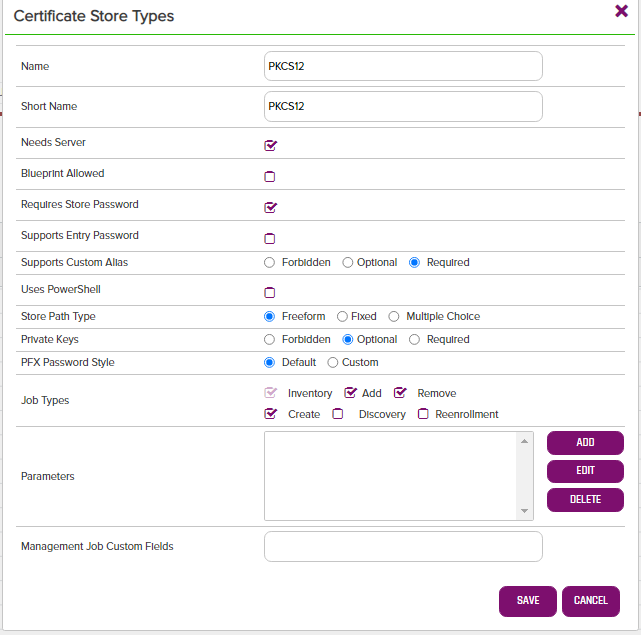
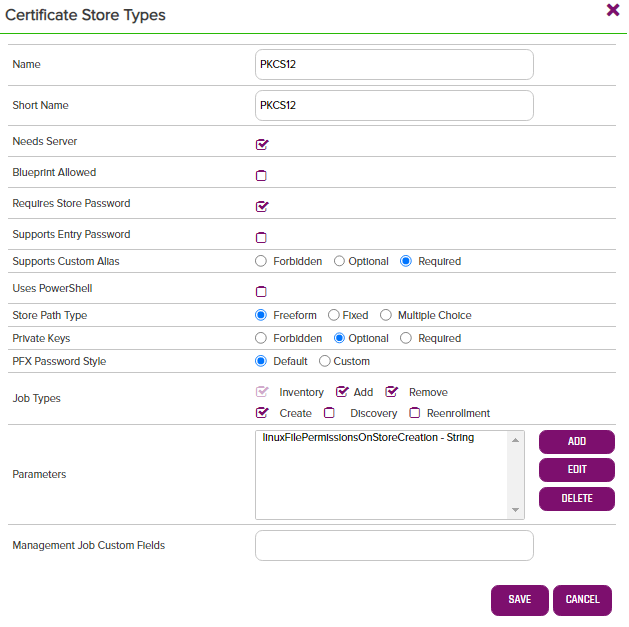
Linux permissions winrm credentials (#7) (#8)

diff --git a/PKCS12/Management.cs b/PKCS12/Management.cs
@@ -38,50 +38,55 @@ namespace Keyfactor.Extensions.Orchestrator.PKCS12
         {
             Logger.Debug($"Begin PKCS12 Management-{Enum.GetName(typeof(AnyJobOperationType), config.Job.OperationType)} job for job id {config.Job.JobId}...");
 
-            PKCS12Store PKCS12Store = new PKCS12Store(config.Store.ClientMachine, config.Server.Username, config.Server.Password, config.Store.StorePath, config.Store.StorePassword);
+            PKCS12Store pkcs12Store = new PKCS12Store(config.Store.ClientMachine, config.Server.Username, config.Server.Password, config.Store.StorePath, config.Store.StorePassword);
 
             try
             {
                 ApplicationSettings.Initialize(this.GetType().Assembly.Location);
 
                 bool hasPassword = !string.IsNullOrEmpty(config.Job.PfxPassword);
-                PKCS12Store.Initialize();
+                pkcs12Store.Initialize();
 
                 switch (config.Job.OperationType)
                 {
                     case AnyJobOperationType.Add:
                         Logger.Debug($"Begin Create Operation for {config.Store.StorePath} on {config.Store.ClientMachine}.");
-                        if (!PKCS12Store.DoesStoreExist())
+                        if (!pkcs12Store.DoesStoreExist())
                         {
-                            throw new PKCS12Exception($"Certificate store {PKCS12Store.StorePath + PKCS12Store.StoreFileName} does not exist on server {PKCS12Store.Server}.");
+                            throw new PKCS12Exception($"Certificate store {pkcs12Store.StorePath + pkcs12Store.StoreFileName} does not exist on server {pkcs12Store.Server}.");
                         }
                         else
                         {
-                            PKCS12Store.AddCertificate(config.Job.Alias, config.Job.EntryContents, config.Job.Overwrite, config.Job.PfxPassword);
+                            pkcs12Store.AddCertificate(config.Job.Alias, config.Job.EntryContents, config.Job.Overwrite, config.Job.PfxPassword);
                         }
                         break;
 
                     case AnyJobOperationType.Remove:
                         Logger.Debug($"Begin Delete Operation for {config.Store.StorePath} on {config.Store.ClientMachine}.");
-                        if (!PKCS12Store.DoesStoreExist())
+                        if (!pkcs12Store.DoesStoreExist())
                         {
-                            throw new PKCS12Exception($"Certificate store {PKCS12Store.StorePath + PKCS12Store.StoreFileName} does not exist on server {PKCS12Store.Server}.");
+                            throw new PKCS12Exception($"Certificate store {pkcs12Store.StorePath + pkcs12Store.StoreFileName} does not exist on server {pkcs12Store.Server}.");
                         }
                         else
                         {
-                            PKCS12Store.DeleteCertificateByAlias(config.Job.Alias);
+                            pkcs12Store.DeleteCertificateByAlias(config.Job.Alias);
                         }
                         break;
 
                     case AnyJobOperationType.Create:
                         Logger.Debug($"Begin Create Operation for {config.Store.StorePath} on {config.Store.ClientMachine}.");
-                        if (PKCS12Store.DoesStoreExist())
+                        if (pkcs12Store.DoesStoreExist())
                         {
-                            throw new PKCS12Exception($"Certificate store {PKCS12Store.StorePath + PKCS12Store.StoreFileName} already exists.");
+                            throw new PKCS12Exception($"Certificate store {pkcs12Store.StorePath + pkcs12Store.StoreFileName} already exists.");
                         }
                         else
                         {
-                            PKCS12Store.CreateCertificateStore(config.Store.StorePath, config.Store.StorePassword);
+                            dynamic properties = JsonConvert.DeserializeObject(config.Store.Properties.ToString());
+                            string linuxFilePermissions = properties.linuxFilePermissionsOnStoreCreation == null || string.IsNullOrEmpty(properties.linuxFilePermissionsOnStoreCreation.Value) ?
+                                ApplicationSettings.DefaultLinuxPermissionsOnStoreCreation :
+                                properties.linuxFilePermissionsOnStoreCreation.Value;
+
+                            pkcs12Store.CreateCertificateStore(config.Store.StorePath, linuxFilePermissions);
                         }
                         break;
 
@@ -95,7 +100,7 @@ namespace Keyfactor.Extensions.Orchestrator.PKCS12
             }
             finally
             {
-                PKCS12Store.Terminate();
+                pkcs12Store.Terminate();
             }
 
             return new AnyJobCompleteInfo() { Status = 2, Message = "Successful" };

diff --git a/PKCS12/RemoteHandlers/WinRMHandler.cs b/PKCS12/RemoteHandlers/WinRMHandler.cs
@@ -9,6 +9,7 @@ using System;
 using System.Collections.Generic;
 using System.Management.Automation;
 using System.Management.Automation.Runspaces;
+using System.Net;
 using System.Text;
 
 namespace Keyfactor.Extensions.Orchestrator.PKCS12.RemoteHandlers
@@ -20,17 +21,23 @@ namespace Keyfactor.Extensions.Orchestrator.PKCS12.RemoteHandlers
         private const string IGNORED_ERROR3 = "certificate was added to keystore";
 
         private Runspace runspace { get; set; }
+        private WSManConnectionInfo connectionInfo { get; set; }
 
-        internal WinRMHandler(string server)
+        internal WinRMHandler(string server, string serverLogin, string serverPassword)
         {
             Server = server;
+            connectionInfo = new WSManConnectionInfo(new System.Uri($"{Server}/wsman"));
+            if (!string.IsNullOrEmpty(serverLogin))
+            {
+                connectionInfo.Credential = new PSCredential(serverLogin, new NetworkCredential(serverLogin, serverPassword).SecurePassword);
+            }
         }
 
         public override void Initialize()
         {
             try
             {
-                runspace = RunspaceFactory.CreateRunspace(new WSManConnectionInfo(new System.Uri($"{Server}/wsman")));
+                runspace = RunspaceFactory.CreateRunspace(connectionInfo);
                 runspace.Open();
             }
 
@@ -184,7 +191,7 @@ namespace Keyfactor.Extensions.Orchestrator.PKCS12.RemoteHandlers
             return RunCommandBinary($@"Get-Content -Path ""{path}"" -Encoding Byte -Raw");
         }
 
-        public override void CreateEmptyStoreFile(string path)
+        public override void CreateEmptyStoreFile(string path, string linuxFilePermissions)
         {
             RunCommand($@"Out-File -FilePath ""{path}""", null, false, null);
         }

diff --git a/PKCS12/RemoteHandlers/SSHHandler.cs b/PKCS12/RemoteHandlers/SSHHandler.cs
@@ -9,6 +9,7 @@ using System;
 using System.Collections.Generic;
 using System.IO;
 using System.Text;
+using System.Text.RegularExpressions;
 
 using Renci.SshNet;
 
@@ -16,6 +17,8 @@ namespace Keyfactor.Extensions.Orchestrator.PKCS12.RemoteHandlers
 {
     class SSHHandler : BaseRemoteHandler
     {
+        private const string LINUX_PERMISSION_REGEXP = "^[0-7]{3}$";
+        
         private ConnectionInfo Connection { get; set; }
 
         private SshClient sshClient;
@@ -160,9 +163,10 @@ namespace Keyfactor.Extensions.Orchestrator.PKCS12.RemoteHandlers
             }
         }
 
-        public override void CreateEmptyStoreFile(string path)
+        public override void CreateEmptyStoreFile(string path, string linuxFilePermissions)
         {
-            RunCommand($"touch {path}", null, false, null);
+            AreLinuxPermissionsValid(linuxFilePermissions);
+            RunCommand($"install -m {linuxFilePermissions} /dev/null {path}", null, false, null);
             //using sudo will create as root. set useSudo to false 
             //to ensure ownership is with the credentials configued in the platform
         }
@@ -186,6 +190,13 @@ namespace Keyfactor.Extensions.Orchestrator.PKCS12.RemoteHandlers
                     client.Disconnect();
                 }
             }
+        }
+
+        public static void AreLinuxPermissionsValid(string permissions)
+        {
+            Regex regex = new Regex(LINUX_PERMISSION_REGEXP);
+            if (!regex.IsMatch(permissions))
+                throw new PKCS12Exception($"Invalid format for Linux file permissions.  This value must be exactly 3 digits long with each digit between 0-7 but found {permissions} instead.");
         }
 
         private void SplitStorePathFile(string pathFileName, out string path, out string fileName)

diff --git a/PKCS12/ApplicationSettings.cs b/PKCS12/ApplicationSettings.cs
@@ -1,5 +1,4 @@
 using System.IO;
-using System.Text;
 
 using Newtonsoft.Json;
 
@@ -10,6 +9,9 @@ namespace Keyfactor.Extensions.Orchestrator.PKCS12
         public static bool UseSudo { get; set; }
         public static bool UseSeparateUploadFilePath { get; set; }
         public static string SeparateUploadFilePath { get; set; }
+        public static string DefaultLinuxPermissionsOnStoreCreation { get; set; }
+
+        private const string DEFAULT_LINUX_PERMISSION_SETTING = "600";
 
         public static void Initialize(string currLocation)
         {
@@ -25,6 +27,8 @@ namespace Keyfactor.Extensions.Orchestrator.PKCS12
             }
 
             dynamic jsonContents = JsonConvert.DeserializeObject(configContents);
+
+            DefaultLinuxPermissionsOnStoreCreation = jsonContents.DefaultLinuxPermissionsOnStoreCreation == null ? DEFAULT_LINUX_PERMISSION_SETTING : jsonContents.DefaultLinuxPermissionsOnStoreCreation.Value;
 
             ValidateConfig(jsonContents);
 

diff --git a/PKCS12/PKCS12Store.cs b/PKCS12/PKCS12Store.cs
@@ -72,7 +72,7 @@ namespace Keyfactor.Extensions.Orchestrator.PKCS12
             if (ServerType == ServerTypeEnum.Linux)
                 SSH = new SSHHandler(Server, ServerId, ServerPassword);
             else
-                SSH = new WinRMHandler(Server);
+                SSH = new WinRMHandler(Server, ServerId, ServerPassword);
 
             SSH.Initialize();
         }
@@ -167,9 +167,9 @@ namespace Keyfactor.Extensions.Orchestrator.PKCS12
             }
         }
 
-        internal void CreateCertificateStore(string storePath, string storePassword)
+        internal void CreateCertificateStore(string storePath, string linuxFilePermissions)
         {
-            SSH.CreateEmptyStoreFile(storePath);
+            SSH.CreateEmptyStoreFile(storePath, linuxFilePermissions);
         }
 
         internal void AddCertificate(string alias, string certificateEntry, bool overwrite, string pfxPassword)

diff --git a/PKCS12/RemoteHandlers/BaseRemoteHandler.cs b/PKCS12/RemoteHandlers/BaseRemoteHandler.cs
@@ -33,7 +33,7 @@ namespace Keyfactor.Extensions.Orchestrator.PKCS12.RemoteHandlers
 
         public abstract byte[] DownloadCertificateFile(string path);
 
-        public abstract void CreateEmptyStoreFile(string path);
+        public abstract void CreateEmptyStoreFile(string path, string linuxFilePermissions);
 
         public abstract bool DoesFileExist(string path);
     }

diff --git a/PKCS12/RemoteHandlers/IRemoteHandler.cs b/PKCS12/RemoteHandlers/IRemoteHandler.cs
@@ -23,7 +23,7 @@ namespace Keyfactor.Extensions.Orchestrator.PKCS12.RemoteHandlers
 
         byte[] DownloadCertificateFile(string path);
 
-        void CreateEmptyStoreFile(string path);
+        void CreateEmptyStoreFile(string path, string linuxFilePermissions);
 
         bool DoesFileExist(string path);
     }

diff --git a/README.md b/README.md
@@ -57,6 +57,7 @@ The PKCS12 Windows AnyAgent has been tested against Keyfactor Windows Orchestrat
 In Keyfactor Command create a new Certificate Store Type similar to the one below:
 
 ![](Images/image1.png)
+![](Images/image10.png)
 
 - **Name** – Required. The display name of the new Certificate Store Type
 - **Short Name** – Required. **MUST** be &quot;PKCS12&quot;
@@ -68,6 +69,7 @@ In Keyfactor Command create a new Certificate Store Type similar to the one belo
 - **PFX Password Style** – Default
 - **Job Types** – Create, Inventory, Add, and Remove are the 4 job types implemented by this AnyAgent
 - **Management Job Custom Fields** - Keep blank.
+- **Linux File Permissions on Store Creation** - Optional.  Overrides the optional config.json DefaultLinuxPermissionsOnStoreCreation setting (see section 4 below) for a specific certificate store.  This value will set the file permissions (Linux only) of a new certificate store created via a Management-Create job.  If this parameter is not added or added but not set, the permissions used will be derived from the DefaultLinuxPermissionsOnStoreCreation setting. 
 
 **2. Register the PKCS12 AnyAgent with Keyfactor**
 
@@ -117,11 +119,12 @@ Navigate to Certificate Locations =\> Certificate Stores within Keyfactor Comman
   
   - PAM provider information to pass the UserId/Password or UserId/SSH private key credentials
   
-When setting up a Windows server, the format of the machine name must be – [http://_ServerName:5985](http://ServerName:5985/), where &quot;5985&quot; is the WinRM port number. 5985 is the standard, but if your organization uses a different, use that.  The credentials used will be the Keyfactor Command service account.  Because of this, for Windows orchestrated servers, setting an additional set of credentials is not necessary.  **However, it is required that the *Change Credentials* link still be clicked on and the resulting dialog closed by clicking OK.**
+When setting up a Windows server, the format of the machine name must be – http://ServerName:5985, where &quot;5985&quot; is the WinRM port number. 5985 is the standard, but if your organization uses a different port, use that.  The Keyfactor Command service account will be used if the credentials are left blank.  **However, if you choose to not enter credentials and use the Keyfactor Command service account, it is required that the *Change Credentials* link still be clicked on and the resulting dialog closed by clicking OK.**
   
 - **Store Path** – Required. The FULL PATH and file name of the pkcs12 certificate store being managed. File paths on Linux servers will always begin with a &quot;/&quot;. Windows servers will always begin with the drive letter, colon, and backslash, such as &quot;c:\\&quot;.  Valid characters for Linux store paths include any alphanumeric character, space, forward slash, hyphen, underscore, and period. For Windows servers, the aforementioned characters as well as a colon and backslash.
 - **Orchestrator** – Select the orchestrator you wish to use to manage this store
-- **Store Password** – Set the store password or set no password after clicking the supplied button
+- **Store Password** – Required. Set the store password or set no password after clicking the supplied button
+- **Linux File Permissions on Store Creation** - Optional (Linux only). Set the Linux file permissions you wish to be set when creating a new physical certificate store via checking Create Certificate Store above.  This value must be 3 digits all betwwen 0-7.
 - **Inventory Schedule** – Set a schedule for running Inventory jobs or none, if you choose not to schedule Inventory at this time.
 
 
@@ -137,6 +140,8 @@ As a configuration step, you must modify the config.json file, found in the plug
 
 &quot;SeparateUploadFilePath&quot;: &quot;/path/to/upload/folder/&quot;,
 
+&quot;DefaultLinuxPermissionsOnStoreCreation&quot;: &quot;600&quot; 
+
 Modify the three values as appropriate (all must be present regardless of Linux or Windows server orchestration):
 
 **UseSudo** (Linux only) - to determine whether to prefix certain Linux command with "sudo". This can be very helpful in ensuring that the user id running commands ssh uses "least permissions necessary" to process each task. Setting this value to "Y" will prefix all Linux commands with "sudo" with the expectation that the command being executed on the orchestrated Linux server will look in the sudoers file to determine whether the logged in ID has elevated permissions for that specific command. For orchestrated Windows servers, this setting has no effect. Setting this value to "N" will result in "sudo" not being added to Linux commands.
@@ -144,3 +149,5 @@ Modify the three values as appropriate (all must be present regardless of Linux 
 **UseSeparateUploadFilePath** (Linux only) – When adding a certificate to a PKCS12 certificate store, the AnyAgent must upload the certificate being deployed to the server where the certificate store resides. Setting this value to &quot;Y&quot; looks to the next setting, SeparateUploadFilePath, to determine where this file should be uploaded. Set this value to &quot;N&quot; to use the same path where the certificate store being managed resides. The certificate file uploaded to either location will be removed at the end of the process.
 
 **SeparateUploadFilePath** (Linux only) – Only used when UseSeparateUploadFilePath is set to &quot;Y&quot;. Set this to the path you wish to use as the location to upload and later remove certificates to be added to the PKCS12 certificate store being maintained.
+
+**DefaultLinuxPermissionsOnStoreCreation** (Linux only) - Optional.  Value must be 3 digits all between 0-7.  The Linux file permissions that will be set on a new certificate store created via a Management Create job.  This value will be used for all certificate stores managed by this orchestrator instance unless overridden by the optional "Linux File Permissions on Store Creation" custom parameter setting on a specific certificate store.  If "Linux File Permissions on Store Creation" and DefaultLinuxPermissionsOnStoreCreation are not set, a default permission of 600 will be used.

diff --git a/CHANGELOG.md b/CHANGELOG.md
@@ -1,3 +1,7 @@
+v1.2
+- Add new config.json setting DefaultLinuxPermissionsOnStoreCreation, and certificate store type custom parameter linuxFilePermissionsOnStoreCreation
+- Add ability to use client machine credentials for WinRM Windows servers rather than always using the Keyfactor service account 
+
 v1.1
 - Limit the valid characters that can be used for store paths to protect against command injection.
 
